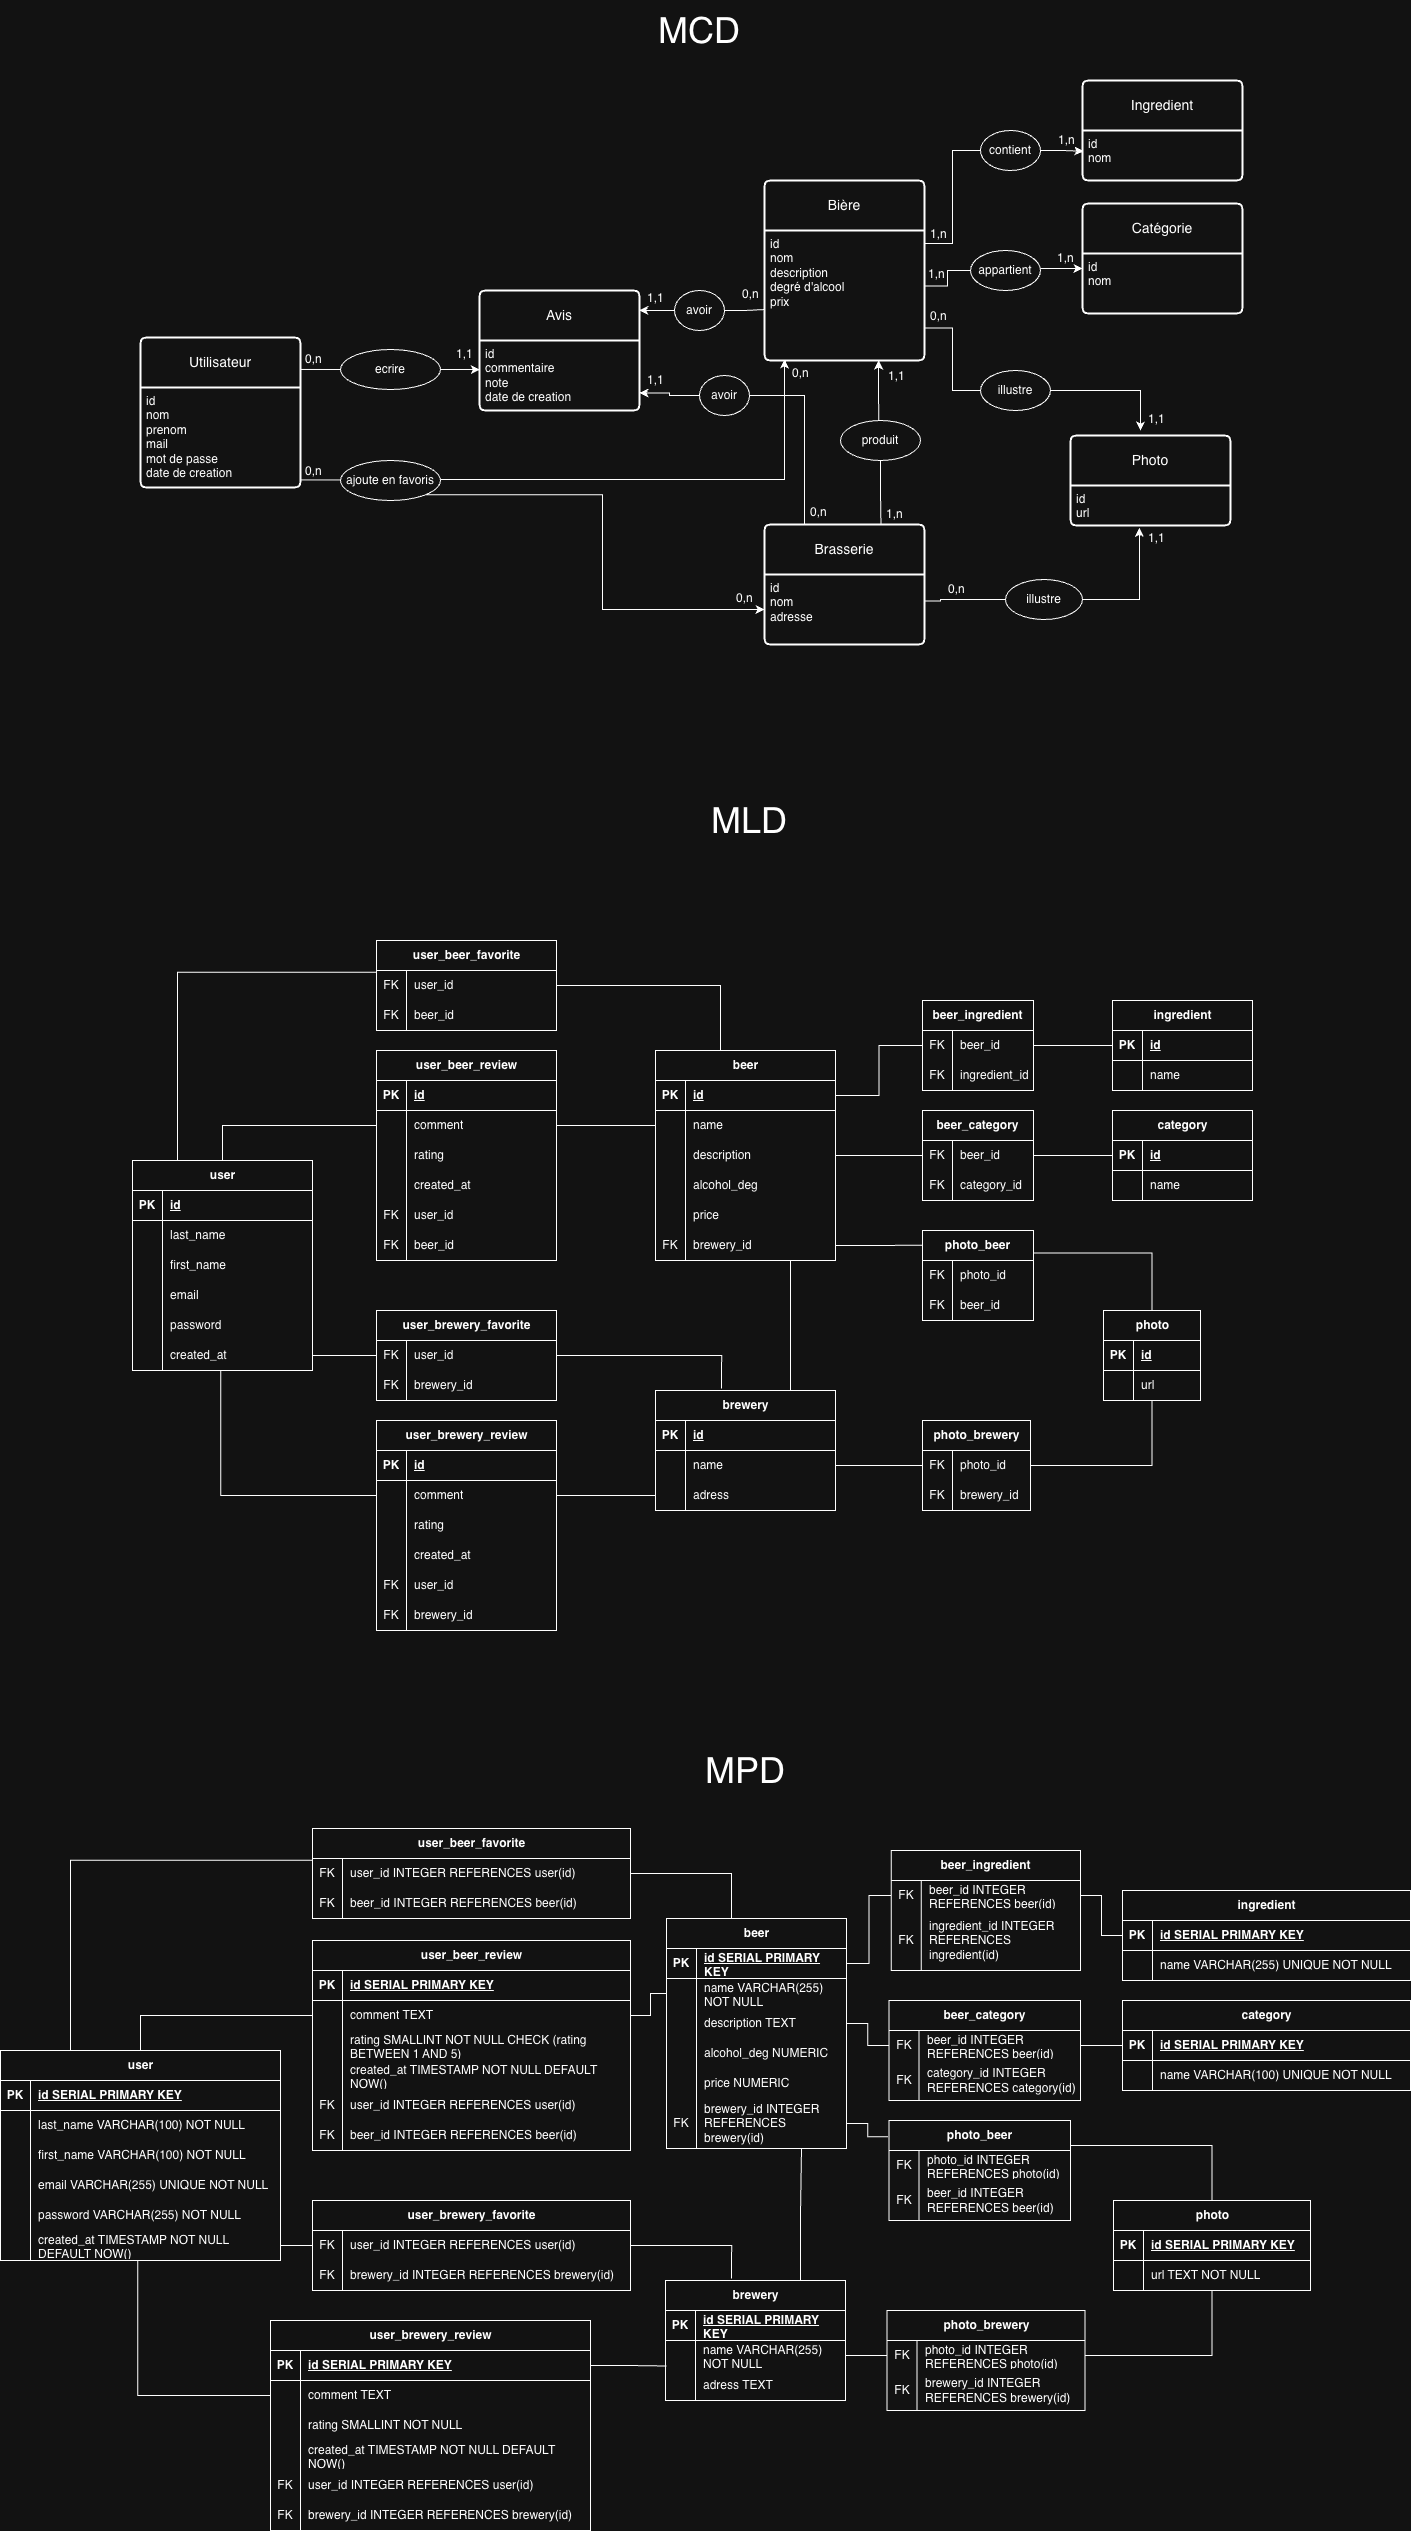
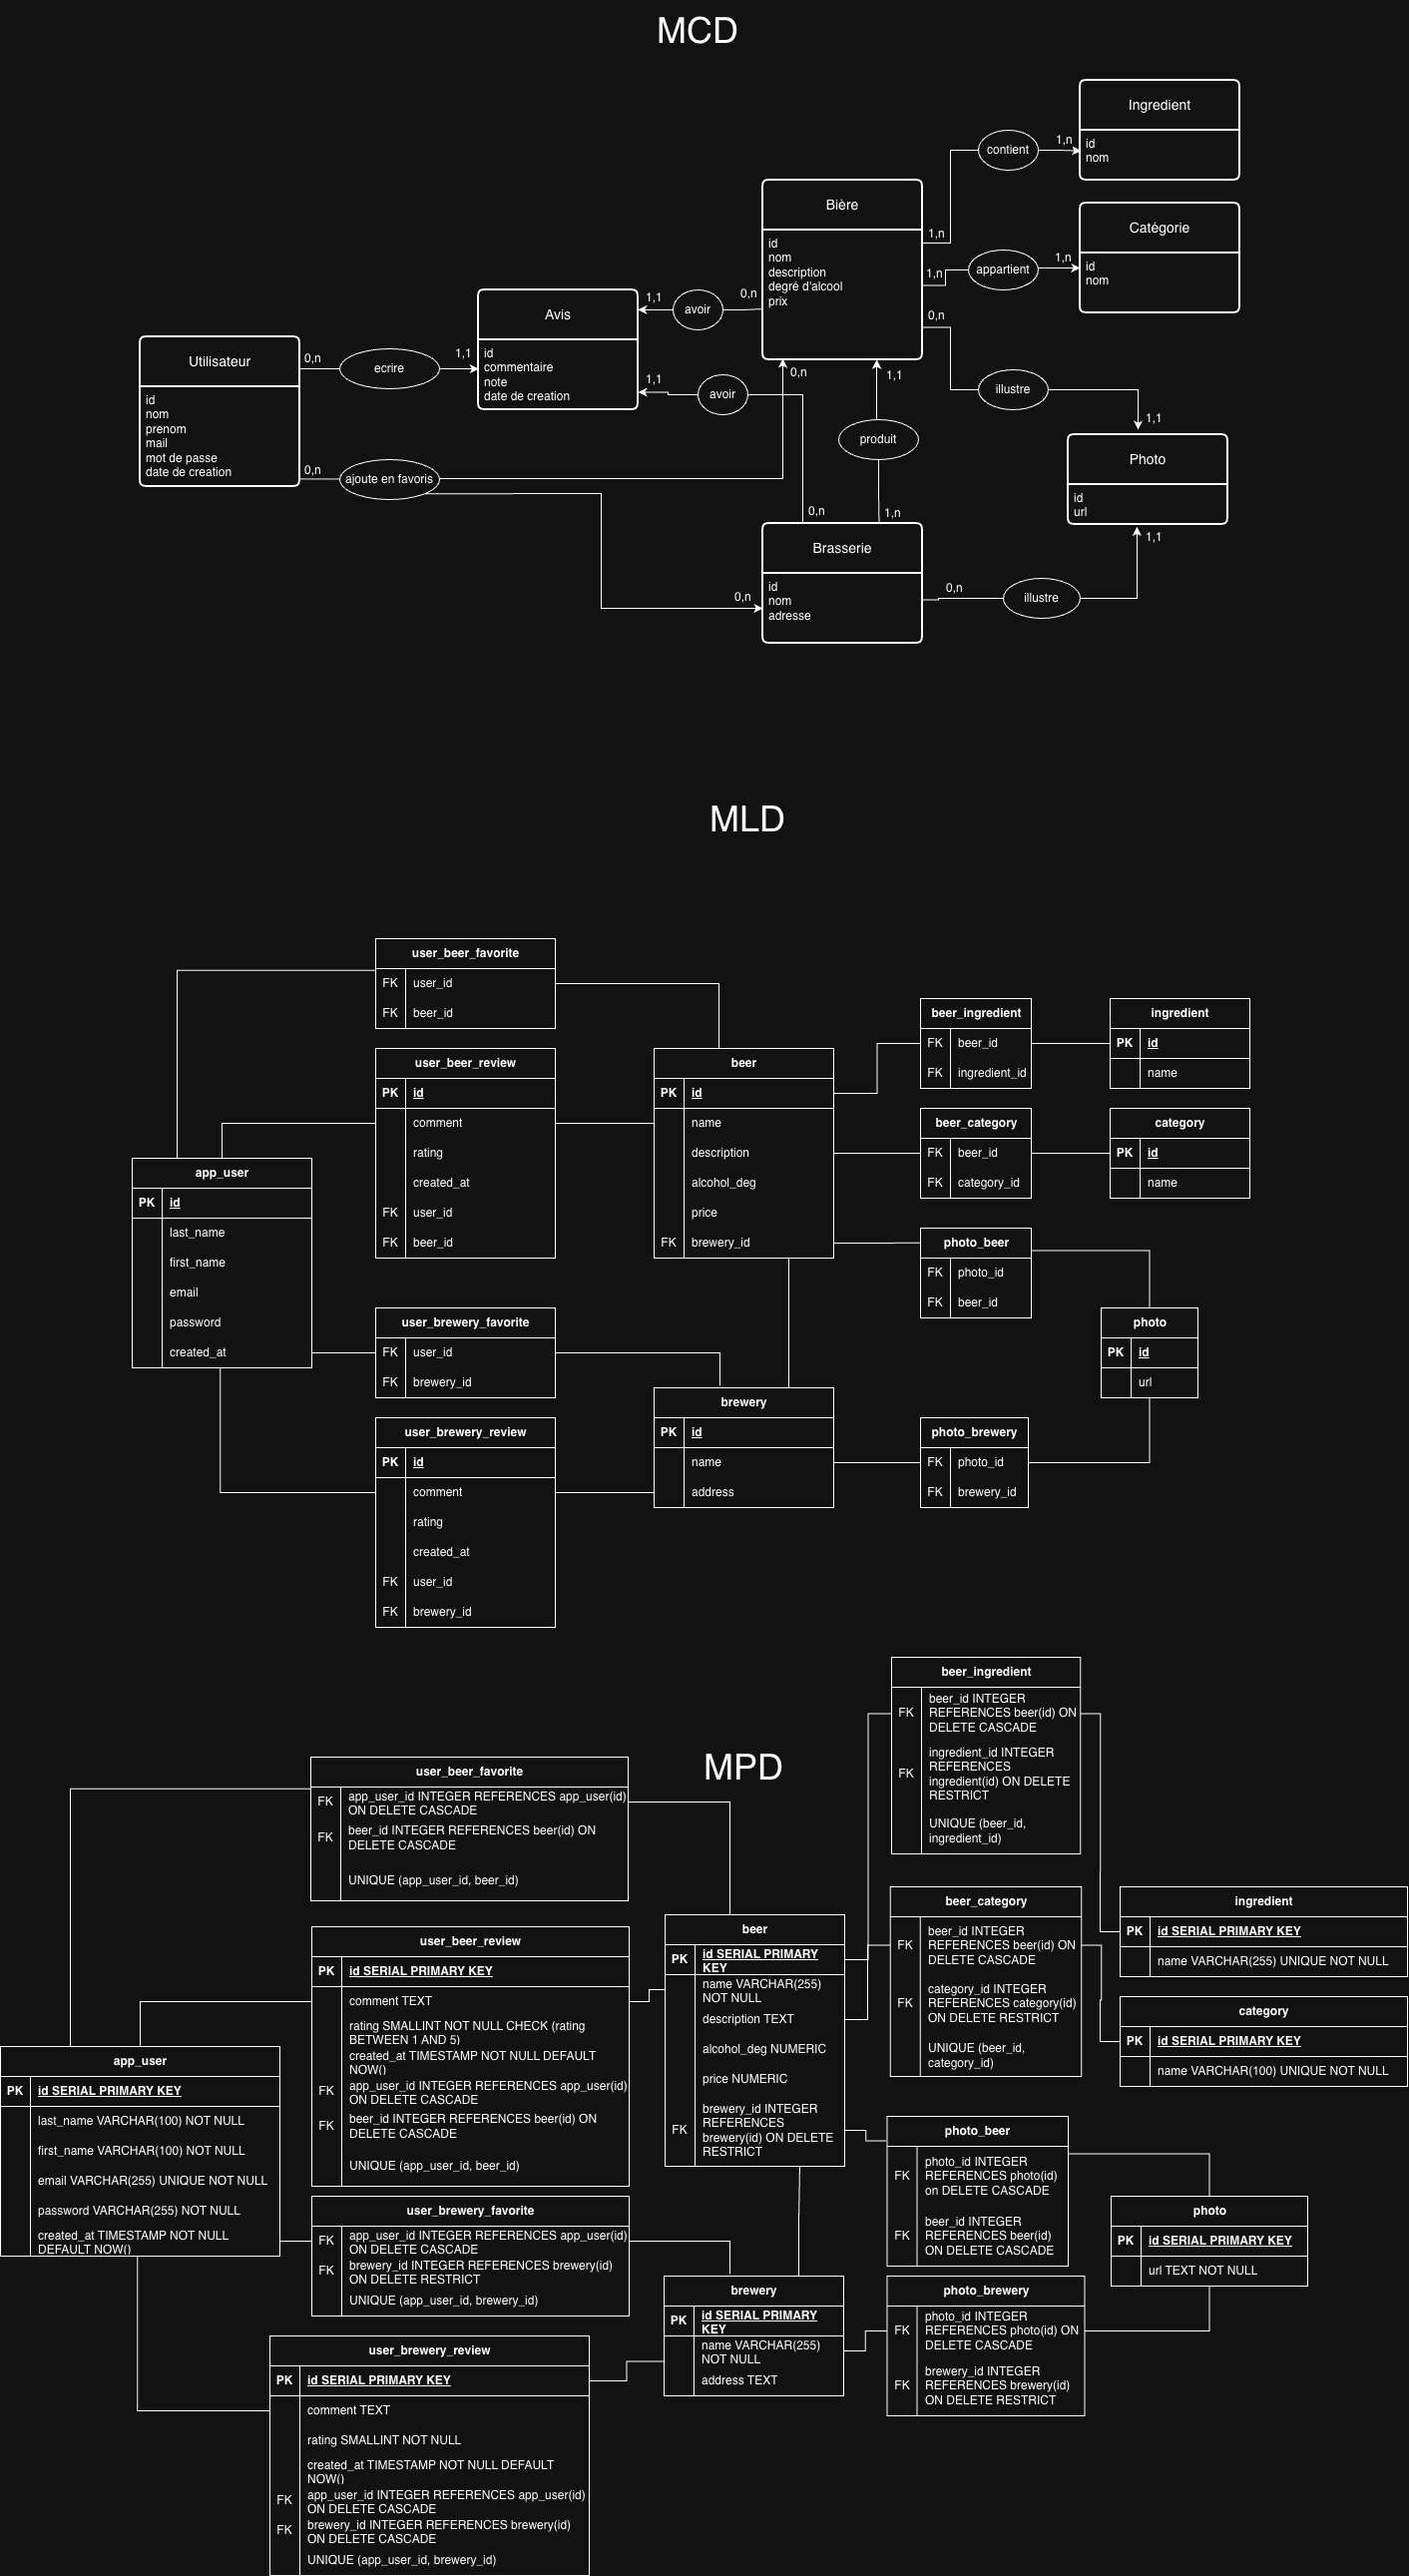
docs: update data dictionary and merise

diff --git a/docs/dictionnaire_donnees.md b/docs/dictionnaire_donnees.md
@@ -1,6 +1,6 @@
 ## Dictionnaire de données
  
-### user
+### app_user
  
 | Champ      | Type         | Description                | Contraintes            |
 |------------|--------------|----------------------------|------------------------|
@@ -9,7 +9,7 @@
 | first_name | VARCHAR(100) | Prénom de l'utilisateur    | NOT NULL               |
 | email      | VARCHAR(255) | Adresse email              | UNIQUE, NOT NULL       |
 | password   | VARCHAR(255) | Mot de passe hashé         | NOT NULL               |
-| created_at | TIMESTAMPTZ  | Date de création du compte | NOT NULL DEFAULT NOW() |
+| created_at | TIMESTAMP    | Date de création du compte | NOT NULL DEFAULT NOW() |
  
 ### brewery
  
@@ -53,22 +53,22 @@
  
 ### user-beer-review
  
-| Champ      | Type        | Description                     | Contraintes                              |
-|------------|-------------|---------------------------------|------------------------------------------|
-| id         | SERIAL      | Identifiant unique              | PRIMARY KEY                              |
-| comment    | TEXT        | Texte de l'avis                 |                                          |
-| rating     | SMALLINT    | Note entre 1 et 5               | NOT NULL, CHECK (rating BETWEEN 1 AND 5) |
-| created_at | TIMESTAMPTZ | Date de l'avis                  | NOT NULL DEFAULT NOW()                   |
-| user_id    | INTEGER     | Auteur de l'avis                | REFERENCES user(id) ON DELETE CASCADE    |
-| beer_id    | INTEGER     | Bière concernée (si applicable) | REFERENCES beer(id) ON DELETE CASCADE    |
+| Champ       | Type      | Description                     | Contraintes                              |
+|-------------|-----------|---------------------------------|------------------------------------------|
+| id          | SERIAL    | Identifiant unique              | PRIMARY KEY                              |
+| comment     | TEXT      | Texte de l'avis                 |                                          |
+| rating      | SMALLINT  | Note entre 1 et 5               | NOT NULL, CHECK (rating BETWEEN 1 AND 5) |
+| created_at  | TIMESTAMP | Date de l'avis                  | NOT NULL DEFAULT NOW()                   |
+| app_user_id | INTEGER   | Auteur de l'avis                | REFERENCES user(id) ON DELETE CASCADE    |
+| beer_id     | INTEGER   | Bière concernée (si applicable) | REFERENCES beer(id) ON DELETE CASCADE    |
 
 ### user-brewery-review
 
-| Champ      | Type        | Description                         | Contraintes                               |
-|------------|-------------|-------------------------------------|-------------------------------------------|
-| id         | SERIAL      | Identifiant unique                  | PRIMARY KEY                               |
-| comment    | TEXT        | Texte de l'avis                     |                                           |
-| rating     | SMALLINT    | Note entre 1 et 5                   | NOT NULL, CHECK (rating BETWEEN 1 AND 5)  |
-| created_at | TIMESTAMPTZ | Date de l'avis                      | NOT NULL DEFAULT NOW()                    |
-| user_id    | INTEGER     | Auteur de l'avis                    | REFERENCES user(id)  ON DELETE CASCADE    |
-| brewery_id | INTEGER     | Brasserie concernée (si applicable) | REFERENCES brewery(id) ON DELETE RESTRICT |
+| Champ       | Type      | Description                         | Contraintes                              |
+|-------------|-----------|-------------------------------------|------------------------------------------|
+| id          | SERIAL    | Identifiant unique                  | PRIMARY KEY                              |
+| comment     | TEXT      | Texte de l'avis                     |                                          |
+| rating      | SMALLINT  | Note entre 1 et 5                   | NOT NULL, CHECK (rating BETWEEN 1 AND 5) |
+| created_at  | TIMESTAMP | Date de l'avis                      | NOT NULL DEFAULT NOW()                   |
+| app_user_id | INTEGER   | Auteur de l'avis                    | REFERENCES user(id)  ON DELETE CASCADE   |
+| brewery_id  | INTEGER   | Brasserie concernée (si applicable) | REFERENCES brewery(id) ON DELETE CASCADE |